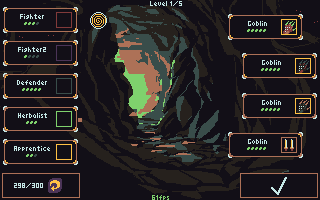
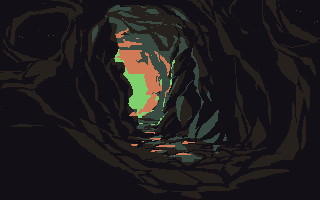
sexy background

diff --git a/core/src/com/tann/dice/Images.java b/core/src/com/tann/dice/Images.java
@@ -33,7 +33,7 @@ public class Images {
     public static final TextureRegion heart = Main.atlas.findRegion("icon/hp");
     public static final TextureRegion heart_empty = Main.atlas.findRegion("icon/hp_empty");
 
-    public static final TextureRegion background = Main.atlas.findRegion("background3");
+    public static final TextureRegion background = Main.atlas.findRegion("background2");
 
     public static final TextureRegion patch = Main.atlas.findRegion("patch/test");
 
